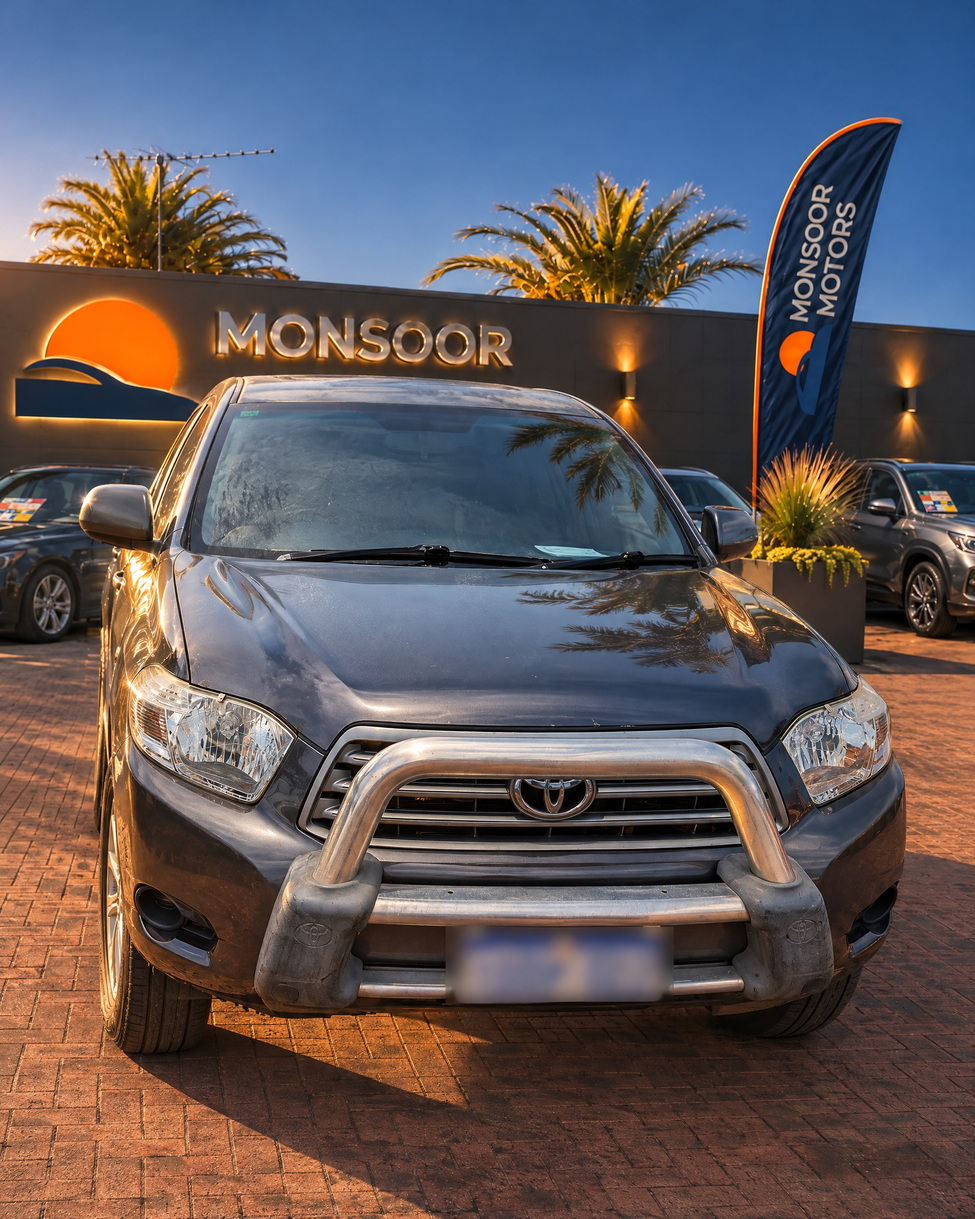
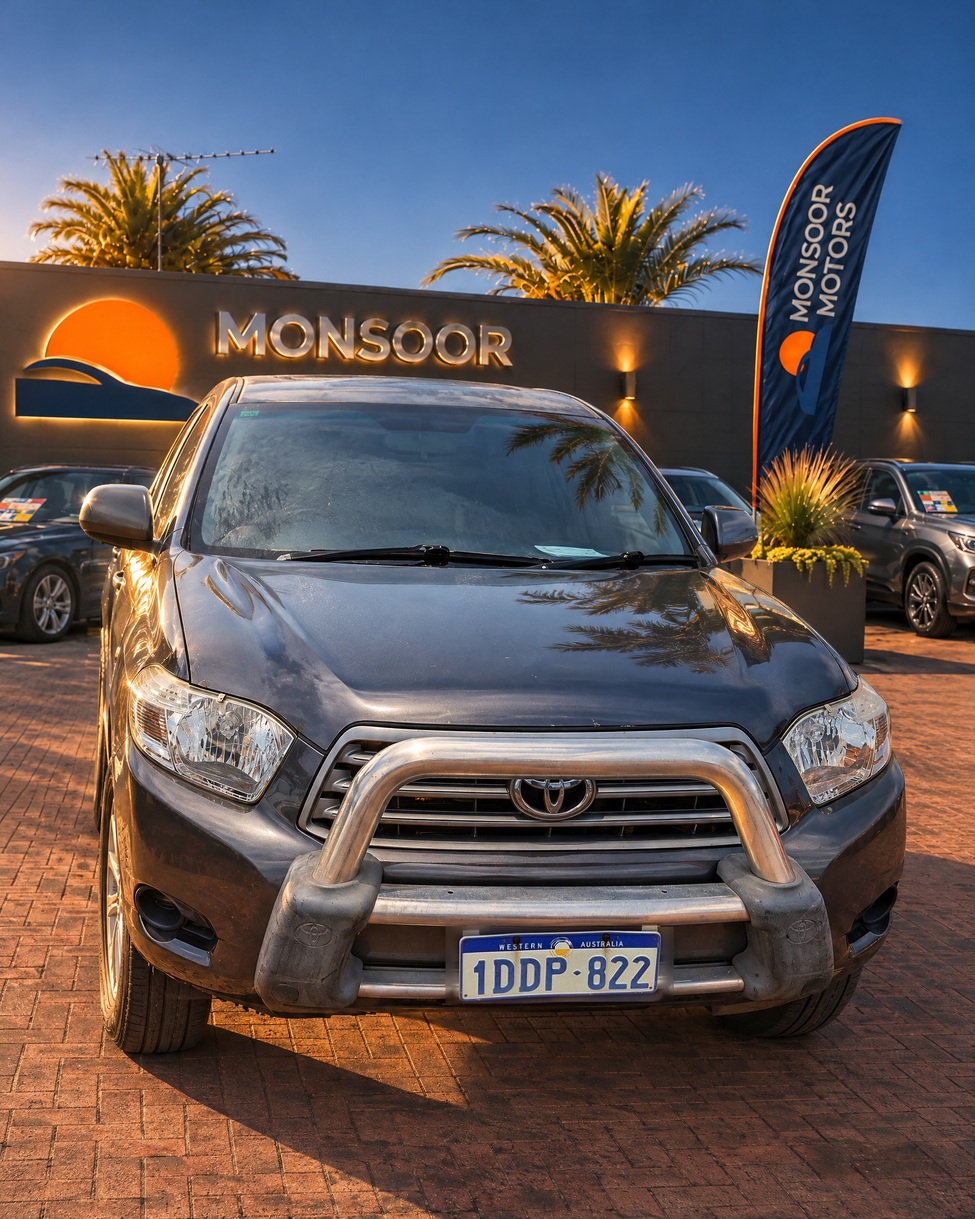
Kluger post photos: real number plate restored locally (0 credits)

Changed region(s): [[0.4688, 0.75, 0.6875, 0.8438]]

diff --git a/Tools/restore_plate.py b/Tools/restore_plate.py
@@ -1,0 +1,70 @@
+"""Copy the real number plate from a source photo into an AI-relit version of it
+(free, local). Finds the plate area with SIFT feature matching around the plate,
+warps the sharp plate patch into place and matches it to the new light.
+
+Usage:
+  python -I Tools/restore_plate.py SRC.jpg RELIT.jpg OUT.jpg x0,y0,x1,y1 [--ctx 3.0]
+  The box is the plate in SRC pixels (a little margin is fine).
+"""
+import argparse
+
+import cv2
+import numpy as np
+
+
+def main():
+    ap = argparse.ArgumentParser()
+    ap.add_argument("src"); ap.add_argument("relit"); ap.add_argument("out"); ap.add_argument("box")
+    ap.add_argument("--ctx", type=float, default=3.0, help="feature search area, in plate sizes")
+    ap.add_argument("--debug")
+    a = ap.parse_args()
+
+    src, dst = cv2.imread(a.src), cv2.imread(a.relit)
+    x0, y0, x1, y1 = map(int, a.box.split(","))
+    bw, bh = x1 - x0, y1 - y0
+    cx0, cy0 = max(0, int(x0 - bw * a.ctx)), max(0, int(y0 - bh * a.ctx))
+    cx1, cy1 = min(src.shape[1], int(x1 + bw * a.ctx)), min(src.shape[0], int(y1 + bh * a.ctx))
+
+    sift = cv2.SIFT_create(8000)
+    g1 = cv2.cvtColor(src, cv2.COLOR_BGR2GRAY)
+    g2 = cv2.cvtColor(dst, cv2.COLOR_BGR2GRAY)
+    m1 = np.zeros_like(g1); m1[cy0:cy1, cx0:cx1] = 255
+    m1[y0:y1, x0:x1] = 0  # plate itself is blurred in the relit image, skip it
+    k1, d1 = sift.detectAndCompute(g1, m1)
+    # scale relit into source-size space for consistent matching
+    k2, d2 = sift.detectAndCompute(g2, None)
+    matches = cv2.BFMatcher().knnMatch(d1, d2, k=2)
+    good = [m for m, n in matches if m.distance < 0.75 * n.distance]
+    p1 = np.float32([k1[m.queryIdx].pt for m in good])
+    p2 = np.float32([k2[m.trainIdx].pt for m in good])
+    H, inl = cv2.findHomography(p1, p2, cv2.RANSAC, 4.0)
+    print(f"matches {len(good)} inliers {int(inl.sum()) if inl is not None else 0}")
+
+    # Warp the whole source; take only the plate area
+    warped = cv2.warpPerspective(src, H, (dst.shape[1], dst.shape[0]), flags=cv2.INTER_LANCZOS4)
+    mask = np.zeros(src.shape[:2], np.float32); mask[y0:y1, x0:x1] = 1
+    wm = cv2.warpPerspective(mask, H, (dst.shape[1], dst.shape[0]))
+    feather = max(2, int(0.06 * min(bw, bh) * abs(np.linalg.det(H[:2, :2])) ** 0.5))
+    wm = cv2.GaussianBlur(cv2.erode(wm, np.ones((3, 3))), (0, 0), feather)[..., None]
+
+    # Light match inside the plate area (LAB mean shift, mild contrast match)
+    sel = wm[..., 0] > 0.5
+    lw = cv2.cvtColor(warped, cv2.COLOR_BGR2LAB).astype(np.float32)
+    ld = cv2.cvtColor(dst, cv2.COLOR_BGR2LAB).astype(np.float32)
+    for c in range(3):
+        ms, md = lw[..., c][sel].mean(), ld[..., c][sel].mean()
+        k = 0.6 if c == 0 else 0.8
+        lw[..., c] = (lw[..., c] - ms) + ms + (md - ms) * k
+    warped = cv2.cvtColor(np.clip(lw, 0, 255).astype(np.uint8), cv2.COLOR_LAB2BGR).astype(np.float32)
+
+    out = warped * wm + dst.astype(np.float32) * (1 - wm)
+    cv2.imwrite(a.out, np.clip(out, 0, 255).astype(np.uint8), [cv2.IMWRITE_JPEG_QUALITY, 93])
+    if a.debug:
+        ys, xs = np.where(sel)
+        pad = 60
+        crop = out[max(ys.min() - pad, 0):ys.max() + pad, max(xs.min() - pad, 0):xs.max() + pad]
+        cv2.imwrite(a.debug, crop.astype(np.uint8))
+
+
+if __name__ == "__main__":
+    main()

diff --git a/.claude/STATUS.md b/.claude/STATUS.md
@@ -4,6 +4,14 @@ Claude updates this file after every step and pushes it to GitHub. Newest entry 
 
 ---
 
+## 23 Nov 2026: real number plates back on the Kluger photos
+
+- **What I did:** put the real plate 1DDP 822 back into the relit photos 01, 03, 04, 05 and 08 (copied from the real photo, warped and light-matched, 0 credits). Photo 02 shows the plate edge-on, so I left it as is.
+- **Files:** `Cars/Toyota Kluger KX-R V6 AWD (grey)/Post Ready/`, new `Tools/restore_plate.py`.
+- **Next:** owner posts; fix the website listing details.
+
+---
+
 ## 23 Nov 2026: Kluger sale photos in the Monsoor yard
 
 - **What I did:** graded all 15 Kluger photos; emptied the GTA final yard (C-HR removed); cut out the car and relit 8 outside shots into the yard with Higgsfield (about 33 credits); plates blurred; wrote the sale caption from the website listing.

diff --git a/Monsoor Motors - Playbook & Daily Log.md b/Monsoor Motors - Playbook & Daily Log.md
@@ -101,6 +101,7 @@ Cutting a car out of its background: macOS built-in subject detection (Vision) v
 
 - `Tools/publish_aureus_public.sh`: publishes a clean public copy of the Aureus Detailing folder to github.com/Arfan-Zaman/Aureus-Detailing (fresh single commit, private items left out).
 - `car_photo_enhance.py`: honest grade + Facebook crop for stock-car photos (light, colour, sharpen; optional background blur boxes).
+- `restore_plate.py`: puts the real number plate from the original photo back into an AI-relit photo (SIFT match, warp, light match; free).
 - `car_yard_composite.py`: puts a Higgsfield background-remover cutout onto the empty Monsoor yard plate (shadow, warmth, plate blur); then relight with prompt `aureus-video-studio/assets/prompts/car-yard-relight.md`.
 
 ## 6. Platform guidelines we follow
